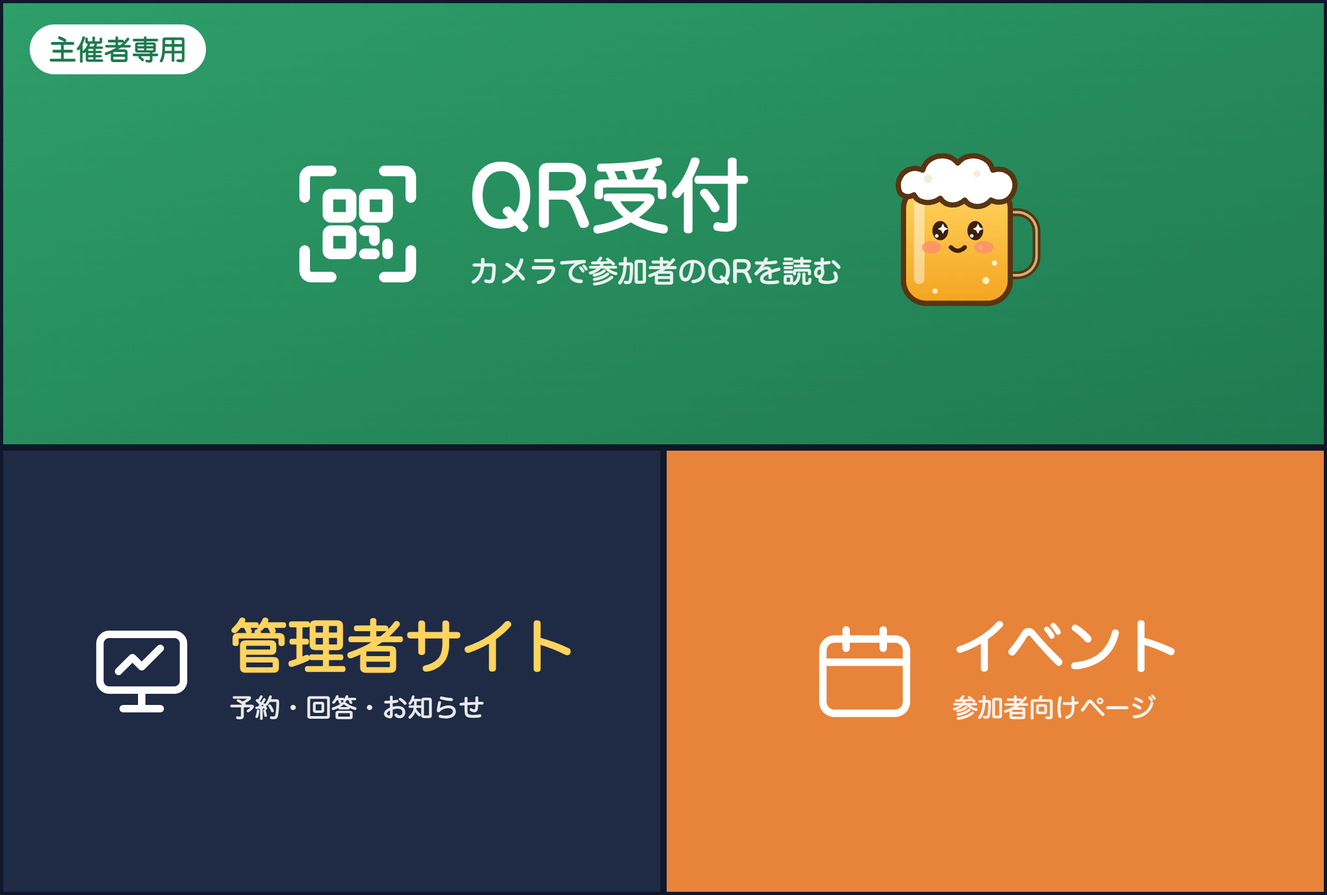
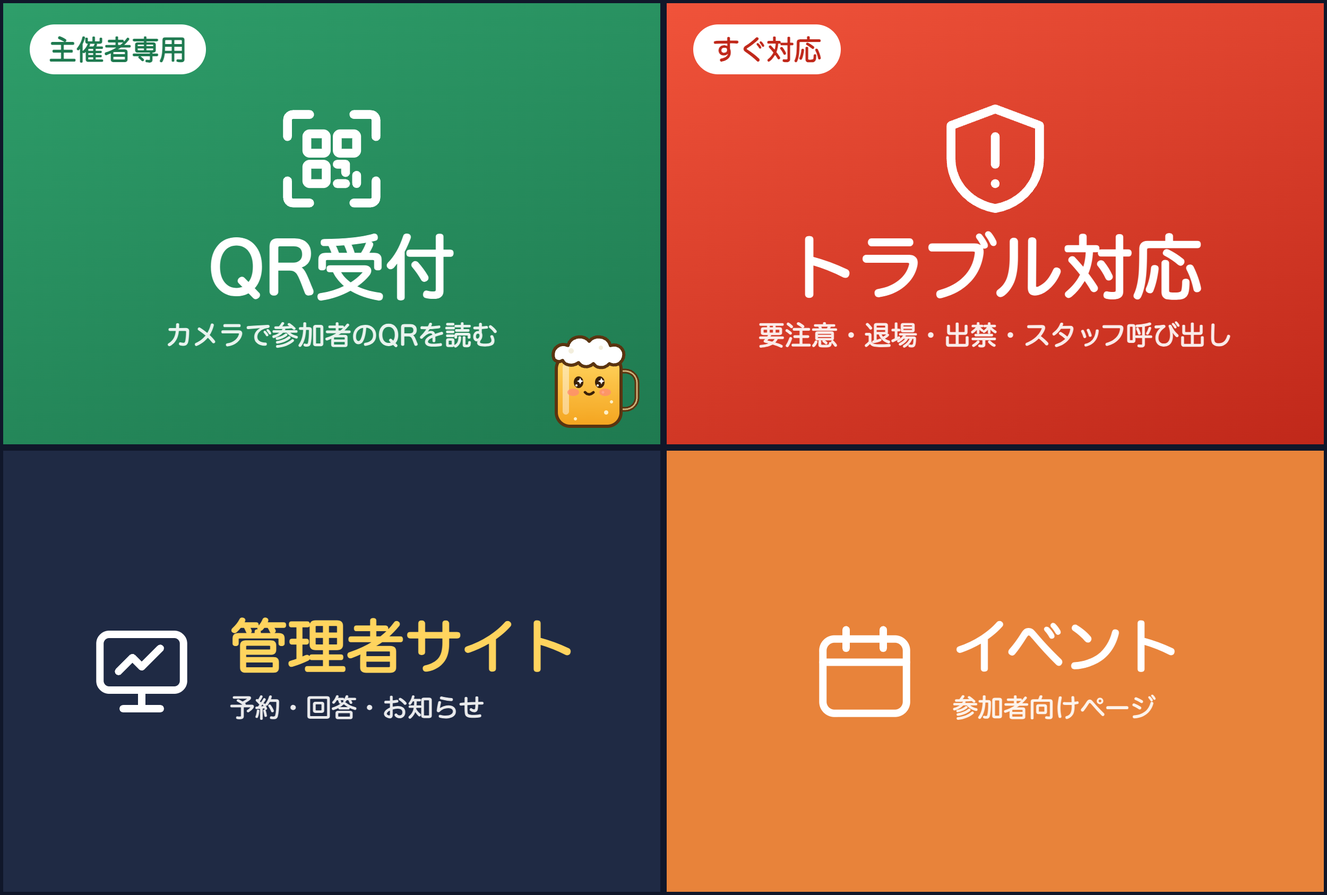
Add files via upload

Changed region(s): [[0.1248, 0.0, 0.9984, 0.4935]]

diff --git a/staff.html b/staff.html
@@ -1,0 +1,272 @@
+<!doctype html>
+<html lang="ja">
+<head>
+<meta charset="utf-8">
+<meta name="viewport" content="width=device-width, initial-scale=1, viewport-fit=cover">
+<meta name="robots" content="noindex">
+<title>トラブル対応</title>
+<link rel="preconnect" href="https://fonts.googleapis.com">
+<link href="https://fonts.googleapis.com/css2?family=Zen+Maru+Gothic:wght@500;700;900&display=swap" rel="stylesheet">
+<style>
+  :root { --ink: #1E2433; --sub: #6B7285; --line: #E3E6EE; --red: #D9362B; --amber: #E39B1B; --green: #2E9E6A; --navy: #1F2A44; }
+  * { box-sizing: border-box; -webkit-tap-highlight-color: transparent; }
+  html, body { margin: 0; }
+  body { font-family: "Zen Maru Gothic", "Hiragino Maru Gothic ProN", "Hiragino Sans", sans-serif; color: var(--ink); background: #F4F5F9;
+    padding: 0 0 calc(24px + env(safe-area-inset-bottom)); }
+  header { background: var(--navy); color: #fff; padding: calc(14px + env(safe-area-inset-top)) 16px 16px; }
+  header h1 { margin: 0; font-size: 20px; font-weight: 900; }
+  header p { margin: 4px 0 0; font-size: 13px; opacity: .8; }
+  main { padding: 0 16px; max-width: 560px; margin: 0 auto; }
+  h2 { font-size: 15px; margin: 22px 0 8px; color: var(--sub); }
+  .call { display: grid; grid-template-columns: 1fr 1fr; gap: 8px; margin-top: 14px; }
+  .call button { border: 0; border-radius: 16px; padding: 14px 10px; font: inherit; font-weight: 900; font-size: 15px; color: #fff; min-height: 64px; }
+  .call .urgent { grid-column: span 2; background: var(--red); font-size: 19px; min-height: 72px; box-shadow: 0 4px 0 #9E1F16; }
+  .call .trouble { background: var(--amber); box-shadow: 0 4px 0 #A86E0C; }
+  .call .come { background: var(--navy); box-shadow: 0 4px 0 #0E1424; }
+  .call button:active { transform: translateY(3px); box-shadow: none; }
+  .place { width: 100%; margin-top: 8px; border: 2px solid var(--line); border-radius: 12px; padding: 12px; font: inherit; font-size: 16px; background: #fff; }
+  .search { position: sticky; top: 0; z-index: 2; background: #F4F5F9; padding: 8px 0; }
+  .search input { width: 100%; border: 2px solid var(--line); border-radius: 12px; padding: 12px; font: inherit; font-size: 16px; background: #fff; }
+  .chips { display: flex; gap: 6px; margin-top: 8px; overflow-x: auto; }
+  .chips button { border: 2px solid var(--line); background: #fff; border-radius: 999px; padding: 6px 12px; font: inherit; font-weight: 700; font-size: 13px; white-space: nowrap; color: var(--ink); }
+  .chips button.on { background: var(--ink); border-color: var(--ink); color: #fff; }
+  .g { background: #fff; border-radius: 16px; margin-top: 8px; border: 2px solid transparent; overflow: hidden; }
+  .g.warn { border-color: var(--amber); }
+  .g.ban { border-color: var(--red); background: #FFF4F2; }
+  .g.focus { box-shadow: 0 0 0 4px rgba(217,54,43,.25); }
+  .row { display: flex; align-items: center; gap: 10px; padding: 12px 14px; width: 100%; border: 0; background: none; font: inherit; text-align: left; color: inherit; }
+  .who { flex: 1; min-width: 0; }
+  .who b { display: block; font-size: 17px; }
+  .who span { font-size: 12px; color: var(--sub); }
+  .pill { font-size: 12px; font-weight: 900; border-radius: 999px; padding: 4px 10px; white-space: nowrap; background: #EEF0F5; color: var(--sub); }
+  .pill.in { background: #E3F5EC; color: var(--green); }
+  .pill.flag-warn { background: #FFF1D6; color: #9A6406; }
+  .pill.flag-ban, .pill.out { background: #FDE3E0; color: var(--red); }
+  .more { padding: 0 14px 14px; display: none; }
+  .g.open .more { display: block; }
+  .memo { background: #F7F8FB; border-radius: 10px; padding: 10px; font-size: 13px; color: var(--ink); white-space: pre-wrap; margin-bottom: 8px; }
+  .more textarea { width: 100%; border: 2px solid var(--line); border-radius: 10px; padding: 10px; font: inherit; font-size: 16px; min-height: 64px; resize: vertical; }
+  .acts { display: grid; grid-template-columns: 1fr 1fr; gap: 8px; margin-top: 8px; }
+  .acts button { border: 0; border-radius: 12px; padding: 12px 8px; font: inherit; font-weight: 900; font-size: 14px; color: #fff; min-height: 48px; }
+  .a-warn { background: var(--amber); } .a-leave { background: var(--navy); } .a-ban { background: var(--red); }
+  .a-clear { background: #fff; color: var(--ink) !important; border: 2px solid var(--line) !important; }
+  .a-note { grid-column: span 2; background: #fff; color: var(--ink) !important; border: 2px solid var(--line) !important; }
+  button:disabled { opacity: .5; }
+  .empty { text-align: center; color: var(--sub); padding: 24px 0; }
+  .links { display: grid; grid-template-columns: 1fr 1fr; gap: 8px; margin-top: 8px; }
+  .links a { display: block; background: #fff; border: 2px solid var(--line); border-radius: 12px; padding: 12px; text-align: center; color: var(--ink); text-decoration: none; font-weight: 900; }
+  .toast { position: fixed; left: 50%; bottom: calc(24px + env(safe-area-inset-bottom)); transform: translateX(-50%) translateY(120px); background: var(--ink); color: #fff; padding: 12px 18px; border-radius: 999px; font-weight: 700; transition: transform .25s; z-index: 9; max-width: calc(100% - 32px); }
+  .toast.show { transform: translateX(-50%) translateY(0); }
+  .sheet { position: fixed; inset: 0; background: rgba(0,0,0,.45); display: none; align-items: flex-end; z-index: 8; }
+  .sheet.show { display: flex; }
+  .sheet > div { background: #fff; width: 100%; border-radius: 20px 20px 0 0; padding: 20px 16px calc(20px + env(safe-area-inset-bottom)); }
+  .sheet h3 { margin: 0 0 6px; font-size: 18px; }
+  .sheet p { margin: 0 0 14px; color: var(--sub); white-space: pre-wrap; }
+  .sheet .btns { display: grid; grid-template-columns: 1fr 1.4fr; gap: 8px; }
+  .sheet button { border: 0; border-radius: 12px; padding: 14px; font: inherit; font-weight: 900; font-size: 16px; }
+  .sheet .no { background: #EEF0F5; } .sheet .yes { background: var(--red); color: #fff; }
+  .err { color: var(--red); font-weight: 700; text-align: center; margin-top: 16px; }
+</style>
+</head>
+<body>
+<header>
+  <h1>🛡 トラブル対応</h1>
+  <p id="hello">主催者・受付スタッフだけが使えるページです</p>
+</header>
+<main>
+  <h2>スタッフを呼ぶ（ほかのスタッフのLINEに届きます）</h2>
+  <div class="call">
+    <button class="urgent" data-kind="urgent">🚨 至急！すぐ来て</button>
+    <button class="trouble" data-kind="trouble">⚠ 困った人がいる</button>
+    <button class="come" data-kind="come">🙋 手を貸して</button>
+  </div>
+  <input class="place" id="place" maxlength="100" placeholder="場所・状況（任意）例：入口、奥のテーブル">
+
+  <h2>今日の参加者 <span id="count"></span></h2>
+  <div class="search">
+    <input id="q" type="search" placeholder="名前で探す">
+    <div class="chips" id="chips">
+      <button data-f="all" class="on">すべて</button>
+      <button data-f="in">受付済み</button>
+      <button data-f="flag">⚠ 要注意・出禁</button>
+      <button data-f="out">退場</button>
+    </div>
+  </div>
+  <div id="list"><p class="empty">読み込み中…</p></div>
+  <p class="err" id="err"></p>
+
+  <h2>ほかの操作</h2>
+  <div class="links">
+    <a href="https://line.me/R/nv/QRCodeReader">📷 QRで受付</a>
+    <a id="admin" href="#">🖥 管理者サイト</a>
+  </div>
+</main>
+<div class="sheet" id="sheet"><div><h3 id="sTitle"></h3><p id="sBody"></p><div class="btns"><button class="no" id="sNo">やめる</button><button class="yes" id="sYes">OK</button></div></div></div>
+<div class="toast" id="toast"></div>
+<script>
+const LIFF_ID = '2012697224-lfwPcqYm';
+const GAS_URL = 'https://script.google.com/macros/s/AKfycby45UwD6Ymwvnf_D_4vMbUGY_m0DUGJtse1oD3hqwHVuDASQ996Xnu2-AKLAqKheMiytQ/exec';
+const ADMIN_URL = 'https://script.google.com/macros/s/AKfycbwPXMvPakMdCljBulMg0I7vnNTqTgSE3EvaV5VeKBWTcx6Q_E9No3UfLSuTM9cAdRiP/exec';
+const params = new URLSearchParams(location.search);
+const PREVIEW = params.has('preview');
+const $ = (id) => document.getElementById(id);
+$('admin').href = ADMIN_URL + '?openExternalBrowser=1';
+let guests = [];
+let filter = 'all';
+let openCode = params.get('c') || '';
+
+function el(tag, props, kids) {
+  const e = Object.assign(document.createElement(tag), props || {});
+  (kids || []).forEach((k) => { if (k) e.append(k); });
+  return e;
+}
+function toast(t) { const x = $('toast'); x.textContent = t; x.classList.add('show'); clearTimeout(toast.t); toast.t = setTimeout(() => x.classList.remove('show'), 2600); }
+function confirmSheet(title, body, yes) {
+  return new Promise((res) => {
+    $('sTitle').textContent = title; $('sBody').textContent = body; $('sYes').textContent = yes;
+    $('sheet').classList.add('show');
+    const done = (v) => { $('sheet').classList.remove('show'); $('sYes').onclick = $('sNo').onclick = null; res(v); };
+    $('sYes').onclick = () => done(true); $('sNo').onclick = () => done(false);
+  });
+}
+
+// ---- プレビュー用のダミー ----
+const DEMO = [
+  { code: 'aaaaaa111111', nickname: 'ありす', lineName: 'Alice', status: '承認', checkedIn: '19:05', flag: '', memo: '' },
+  { code: 'bbbbbb222222', nickname: 'たける', lineName: 'Takeru', status: '承認', checkedIn: '19:12', flag: '要注意', memo: '11/20 20:10 ぐっち：しつこく連絡先を聞いていた' },
+  { code: 'cccccc333333', nickname: 'みお', lineName: 'Mio', status: '承認', checkedIn: '', flag: '', memo: '' },
+  { code: 'dddddd444444', nickname: 'けん', lineName: 'Ken', status: '申請中', checkedIn: '', flag: '', memo: '' },
+];
+async function api(body) {
+  if (PREVIEW) {
+    await new Promise((r) => setTimeout(r, 300));
+    if (body.op === 'list') return { ok: true, me: 'ぐっち', staffCount: 2, guests: DEMO };
+    if (body.op === 'alert') return { ok: true, sent: 1 };
+    const g = DEMO.find((x) => x.code === body.code);
+    if (body.op === 'warn') g.flag = '要注意'; if (body.op === 'ban') g.flag = '出禁'; if (body.op === 'clear') g.flag = '';
+    if (body.op === 'leave') { g.status = '退場'; g.flag = g.flag || '要注意'; }
+    if (body.note) g.memo = (g.memo ? g.memo + ' / ' : '') + 'いま ぐっち：' + body.note;
+    return { ok: true, guest: { ...g } };
+  }
+  const r = await fetch(GAS_URL, { method: 'POST', headers: { 'Content-Type': 'text/plain;charset=utf-8' }, body: JSON.stringify({ type: 'staff', idToken: liff.getIDToken(), ...body }) });
+  return r.json();
+}
+
+// ---- スタッフ呼び出し ----
+document.querySelectorAll('.call button').forEach((b) => b.addEventListener('click', async () => {
+  const label = b.textContent;
+  const place = $('place').value.trim();
+  const ok = await confirmSheet(label, 'ほかのスタッフ全員のLINEに通知します。' + (place ? '\n📍 ' + place : ''), '呼ぶ');
+  if (!ok) return;
+  b.disabled = true;
+  try {
+    const res = await api({ op: 'alert', kind: b.dataset.kind, note: place });
+    if (!res.ok) throw new Error(res.error);
+    toast(res.sent ? '📣 ' + res.sent + '人に知らせました' : 'ほかに登録しているスタッフがいません');
+    if (navigator.vibrate) navigator.vibrate(60);
+  } catch (e) { toast('送れませんでした。もう一度押してね'); }
+  b.disabled = false;
+}));
+
+// ---- 参加者リスト ----
+const STATUS = (g) => g.status === '退場' ? ['退場', 'out'] : g.checkedIn ? ['受付 ' + g.checkedIn, 'in'] : g.status === '申請中' ? ['承認待ち', ''] : ['未受付', ''];
+const FLAG = { '要注意': ['⚠ 要注意', 'flag-warn', 'warn'], '出禁': ['🚫 出禁', 'flag-ban', 'ban'] };
+
+function card(g) {
+  const st = STATUS(g);
+  const f = FLAG[g.flag];
+  const note = el('textarea', { placeholder: '何があった？（任意・ほかのスタッフにも届きます）', maxLength: 150 });
+  const act = (op, text, cls, ask) => {
+    const b = el('button', { className: cls, textContent: text });
+    b.addEventListener('click', async () => {
+      const v = note.value.trim();
+      if (op === 'note' && !v) { note.focus(); toast('メモを書いてね'); return; }
+      if (ask && !(await confirmSheet(ask[0], ask[1], ask[2]))) return;
+      b.disabled = true;
+      try {
+        const res = await api({ op, code: g.code, note: v });
+        if (!res.ok) throw new Error(res.error);
+        Object.assign(g, res.guest);
+        openCode = g.code;
+        render();
+        toast({ warn: '⚠ 要注意にしました', ban: '🚫 出禁にしました', clear: '↩ 外しました', leave: '🚪 退場にしました', note: '📝 メモしました' }[op]);
+      } catch (e) { b.disabled = false; toast('保存できませんでした。もう一度押してね'); }
+    });
+    return b;
+  };
+  const box = el('div', { className: 'g' + (f ? ' ' + f[2] : '') + (openCode === g.code ? ' open focus' : '') }, [
+    el('button', { className: 'row', onclick: () => { box.classList.toggle('open'); openCode = box.classList.contains('open') ? g.code : ''; } }, [
+      el('div', { className: 'who' }, [el('b', { textContent: g.nickname + ' さん' }), el('span', { textContent: 'LINE名：' + g.lineName })]),
+      f ? el('span', { className: 'pill ' + f[1], textContent: f[0] }) : null,
+      el('span', { className: 'pill ' + st[1], textContent: st[0] }),
+    ]),
+    el('div', { className: 'more' }, [
+      g.memo ? el('div', { className: 'memo', textContent: '📝 ' + g.memo }) : null,
+      note,
+      el('div', { className: 'acts' }, [
+        g.flag !== '要注意' ? act('warn', '⚠ 要注意', 'a-warn', null) : act('clear', '↩ 要注意を外す', 'a-clear', null),
+        g.status !== '退場' ? act('leave', '🚪 退場してもらった', 'a-leave', ['退場にしますか？', g.nickname + ' さんを「退場」にして、ほかのスタッフに知らせます。\n本人には通知されません。', '退場にする']) : null,
+        g.flag !== '出禁' ? act('ban', '🚫 出禁', 'a-ban', ['出禁にしますか？', g.nickname + ' さんは次回から予約できなくなります。\n本人には通知されません。あとで管理者サイトから外せます。', '出禁にする']) : act('clear', '↩ 出禁を外す', 'a-clear', ['出禁を外しますか？', 'また予約できるようになります。', '外す']),
+        act('note', '📝 メモだけ残す', 'a-note', null),
+      ]),
+    ]),
+  ]);
+  return box;
+}
+
+function render() {
+  const q = $('q').value.trim().toLowerCase();
+  const list = guests.filter((g) => (!q || (g.nickname + g.lineName).toLowerCase().includes(q))
+    && (filter === 'all' || (filter === 'in' ? g.checkedIn && g.status !== '退場' : filter === 'flag' ? g.flag : g.status === '退場')));
+  // 開いている人 → 要注意・出禁 → 受付済み → その他
+  const rank = (g) => (g.code === openCode ? 0 : g.flag === '出禁' ? 1 : g.flag ? 2 : g.checkedIn ? 3 : 4);
+  list.sort((a, b) => rank(a) - rank(b) || a.nickname.localeCompare(b.nickname, 'ja'));
+  const inCount = guests.filter((g) => g.checkedIn && g.status !== '退場').length;
+  $('count').textContent = '（受付 ' + inCount + ' / ' + guests.length + '人）';
+  $('list').replaceChildren(...(list.length ? list.map(card) : [el('p', { className: 'empty', textContent: guests.length ? '見つかりません' : 'まだ予約した人がいません' })]));
+}
+$('q').addEventListener('input', render);
+$('chips').addEventListener('click', (e) => {
+  const b = e.target.closest('button'); if (!b) return;
+  filter = b.dataset.f;
+  document.querySelectorAll('#chips button').forEach((x) => x.classList.toggle('on', x === b));
+  render();
+});
+
+function loadSdk() {
+  if (window.liff) return Promise.resolve();
+  return new Promise((res, rej) => {
+    const sc = document.createElement('script');
+    sc.src = 'https://static.line-scdn.net/liff/edge/2/sdk.js'; sc.charset = 'utf-8';
+    sc.onload = res; sc.onerror = rej; document.head.appendChild(sc);
+    setTimeout(() => rej(new Error('timeout')), 15000);
+  });
+}
+
+async function load() {
+  const res = await api({ op: 'list' });
+  if (!res.ok) {
+    const msg = { not_staff: 'このLINEはスタッフ登録されていません。管理者サイトのメンバータブの番号で「通知登録」か「受付登録」をしてね。', auth: 'ログインし直してね。' }[res.error] || '読み込めませんでした。';
+    $('list').replaceChildren(); $('err').textContent = msg;
+    document.querySelectorAll('.call button').forEach((b) => { b.disabled = true; });
+    return;
+  }
+  $('hello').textContent = res.me + ' さん・スタッフ ' + res.staffCount + '人';
+  guests = res.guests;
+  render();
+  if (openCode) { const f = document.querySelector('.g.focus'); if (f) f.scrollIntoView({ block: 'center' }); }
+}
+
+async function main() {
+  if (!PREVIEW) {
+    try { await loadSdk(); await liff.init({ liffId: LIFF_ID }); } catch (e) { $('list').replaceChildren(); $('err').textContent = 'LINEアプリから開いてね。'; return; }
+    if (!liff.isLoggedIn()) { liff.login({ redirectUri: location.href }); return; }
+  }
+  try { await load(); } catch (e) { $('list').replaceChildren(); $('err').textContent = '通信エラー。電波のいいところで開き直してね。'; }
+}
+// 別のスタッフの操作も見えるように、画面に戻ったら読み直す
+document.addEventListener('visibilitychange', () => { if (!document.hidden && guests.length) load().catch(() => {}); });
+main();
+</script>
+</body>
+</html>

diff --git a/admin.js b/admin.js
@@ -563,8 +563,8 @@
     ].map(stagger));
     const btns = R_FILTERS.map((x) => el('button', { type: 'button', textContent: x.label, 'aria-pressed': String(reserveFilter === x.key) }));
     const body = el('div', { className: 'friends' });
-    const PILL = { '申請中': 'wait', '承認': 'yes', '見送り': 'no', 'キャンセル': 'no', '不参加': 'no' };
-    const LABEL = { '申請中': '承認待ち', '承認': '確定', '見送り': '見送り', 'キャンセル': 'キャンセル', '不参加': '行けない' };
+    const PILL = { '申請中': 'wait', '承認': 'yes', '見送り': 'no', 'キャンセル': 'no', '不参加': 'no', '退場': 'no' };
+    const LABEL = { '申請中': '承認待ち', '承認': '確定', '見送り': '見送り', 'キャンセル': 'キャンセル', '不参加': '行けない', '退場': '🚪 退場' };
     const draw = () => {
       const list = R.filter((r) => reserveFilter === 'all' || (reserveFilter === 'wait' ? r.status === '申請中' : reserveFilter === 'no' ? r.status === '不参加' : r.status === '承認'));
       body.replaceChildren(...(list.length ? list.map((r, i) => {
@@ -584,7 +584,7 @@
           el('div', { className: 'meta', textContent: sub }),
           r.comment ? el('div', { className: 'rcomment', textContent: '💬 ' + r.comment }) : null,
           r.checkedIn ? el('div', { className: 'rcheck', textContent: '✅ 来場 ' + r.checkedIn.slice(5, 16) }) : null,
-          r.flag || r.memo ? el('div', { className: 'rwarn' + (r.flag ? ' flag' : ''), textContent: (r.flag ? '⚠ 要注意：' : '📝 ') + (r.memo || '') }) : null,
+          r.flag || r.memo ? el('div', { className: 'rwarn' + (r.flag ? ' flag' : ''), textContent: (r.ban ? '🚫 出禁：' : r.flag ? '⚠ 要注意：' : '📝 ') + (r.memo || '') }) : null,
           acts.length ? el('div', { className: 'racts' }, acts) : null,
         ]), i);
       }) : [el('p', { className: 'empty', textContent: reserveFilter === 'wait' ? '承認待ちの予約はありません。' : '当てはまる予約はありません。' })]));
@@ -705,7 +705,7 @@
       const table = el('div', { className: 'tablewrap' }, [el('table', {}, [
         el('thead', {}, [el('tr', {}, ['回答日時', 'ニックネーム', 'LINE名', '参加', '年齢', '職業', '知ったきっかけ', '参加の目的', '仕事でつながりたい人', 'お酒', 'NG・アレルギー', '夢・やりたいこと', '目標', 'ひとこと'].map((h) => el('th', { textContent: h })))]),
         el('tbody', {}, list.map((a, i) => stagger(el('tr', {}, [
-          el('td', { textContent: a.at }), el('td', { textContent: (a.flag ? '⚠ ' : '') + a.nickname, title: a.memo || '' }), el('td', { textContent: a.lineName }),
+          el('td', { textContent: a.at }), el('td', { textContent: (a.ban ? '🚫 ' : a.flag ? '⚠ ' : '') + a.nickname, title: a.memo || '' }), el('td', { textContent: a.lineName }),
           el('td', {}, [el('span', { className: 'pill ' + (a.attend === '参加' ? 'yes' : 'no'), textContent: a.attend })]),
           el('td', { textContent: a.age ? a.age + '歳' : '—' }),
           el('td', { className: 'long', textContent: val(a, DETAIL[1][1]) || '—' }),
@@ -718,7 +718,7 @@
       const cards = el('div', { className: 'cards' }, list.map((a, i) => {
         const card = el('article', { className: 'acard' });
         const head = el('button', { type: 'button', 'aria-expanded': 'false' }, [
-          el('span', { className: 'who', textContent: (a.flag ? '⚠ ' : '') + a.nickname }),
+          el('span', { className: 'who', textContent: (a.ban ? '🚫 ' : a.flag ? '⚠ ' : '') + a.nickname }),
           el('span', {}, [el('span', { className: 'pill ' + (a.attend === '参加' ? 'yes' : 'no'), textContent: a.attend }), el('span', { className: 'chev', 'aria-hidden': 'true', textContent: ' ▾' })]),
           el('span', { className: 'meta', textContent: [a.age ? a.age + '歳' : '', a.job ? '💼 ' + a.job : '', a.purpose, a.connect ? '🤝 ' + a.connect : ''].filter(Boolean).join('　') || a.at }),
         ]);
@@ -852,14 +852,14 @@
     btn.addEventListener('click', () => {
       btn.disabled = true;
       run().withSuccessHandler((m) => {
-        btn.disabled = false; a.memo = m.memo; a.flag = m.flag;
+        btn.disabled = false; a.memo = m.memo; a.flag = m.flag; a.ban = m.ban;
         toast(m.flag ? '⚠ 要注意にしました' : 'メモを保存しました');
         if (onSaved) onSaved();
       }).withFailureHandler((e) => { btn.disabled = false; toast(e.message, { err: true }); }).saveMemo(a.row, ta.value, cb.checked);
     });
     return el('div', { className: 'memo-ed' + (a.flag ? ' flag' : '') }, [
       el('div', { className: 'memo-h', textContent: '📝 管理者メモ（本人には見えません）' }), ta,
-      el('div', { className: 'memo-row' }, [el('label', {}, [cb, ' ⚠ 要注意にする（予約・受付で警告）']), btn]),
+      el('div', { className: 'memo-row' }, [el('label', {}, [cb, a.ban ? ' 🚫 出禁中（外すとまた予約できます）' : ' ⚠ 要注意にする（予約・受付で警告）']), btn]),
     ]);
   }
 

diff --git a/checkin.html b/checkin.html
@@ -27,6 +27,10 @@
   .warn { margin-top: 16px; background: #FFF0EB; border: 3px solid var(--warn); border-radius: 16px; padding: 12px 14px; text-align: left; font-weight: 700; }
   .warn b { color: var(--warn); display: block; margin-bottom: 4px; }
   .note { margin-top: 16px; font-size: 13px; color: var(--sub); }
+  .acts { display: grid; grid-template-columns: 1fr 1fr; gap: 8px; margin-top: 16px; }
+  .acts a { display: block; border-radius: 14px; padding: 12px 6px; font-weight: 900; text-decoration: none; color: #fff; font-size: 14px; }
+  .acts .help { background: #1F2A44; } .acts .sos { background: var(--warn); }
+  body.ban { background: linear-gradient(160deg, #B3261E, #5C0F0A); }
 </style>
 </head>
 <body>
@@ -37,6 +41,10 @@
   <p class="sub" id="sub"></p>
   <div id="badgeBox"></div>
   <div id="warnBox"></div>
+  <div class="acts" id="acts" hidden>
+    <a class="help" id="toGuest" href="staff.html">🛡 この人に対応</a>
+    <a class="sos" href="staff.html">🚨 スタッフを呼ぶ</a>
+  </div>
   <p class="note">主催者用の受付画面です。次の人は、スマホのカメラでQRを読んでください。</p>
 </div>
 <script>
@@ -70,7 +78,8 @@ async function main() {
   const code = params.get('c') || '';
   let res;
   if (PREVIEW) {
-    res = { ok: true, already: params.has('again'), nickname: 'ありす', lineName: 'Alice', visits: 3, badge: '⭐ リピーター', checkedIn: '2026/12/20 19:05:00', warn: params.has('warn'), memo: params.has('warn') ? '前回しつこい営業あり。様子を見る' : '' };
+    res = params.has('ban') ? { ok: false, error: 'banned', nickname: 'たける', warn: true, ban: true, memo: '11/20 20:10 ぐっち：しつこい勧誘で退場' }
+      : { ok: true, already: params.has('again'), nickname: 'ありす', lineName: 'Alice', visits: 3, badge: '⭐ リピーター', checkedIn: '2026/12/20 19:05:00', warn: params.has('warn'), memo: params.has('warn') ? '前回しつこい営業あり。様子を見る' : '' };
   } else {
     try { await loadSdk(); await liff.init({ liffId: LIFF_ID }); } catch (e) { return show('ng', 'LINEで開いてね', '', 'スマホのカメラでQRを読むと、LINEで開きます', 'sad'); }
     if (!liff.isLoggedIn()) { liff.login({ redirectUri: location.href }); return; }
@@ -80,7 +89,14 @@ async function main() {
       res = await r.json();
     } catch (e) { return show('ng', '通信エラー', '', '電波のいいところで、もう一度読み取ってください', 'sad'); }
   }
-  if (!res.ok) {
+  if (res.nickname && res.error !== 'not_staff') {
+    $('toGuest').href = 'staff.html?c=' + encodeURIComponent(code || 'aaaaaa111111') + (PREVIEW ? '&preview' : '');
+    $('acts').hidden = false;
+  }
+  if (res.error === 'banned') {
+    show('ng ban', '🚫 出禁の人です', res.nickname + ' さん', '受付していません。入場をお断りしてください', 'sad');
+    if (navigator.vibrate) navigator.vibrate([200, 100, 200]);
+  } else if (!res.ok) {
     const msg = { not_staff: ['主催者だけが使えます', '「通知登録」をしたLINEで読み取ってください'], not_found: ['予約が見つかりません', 'QRが古いかもしれません'],
       not_approved: ['予約が確定していません', '状態：' + (res.status || '') + '。管理者サイトで確認してください'], auth: ['ログインし直してね', ''], bad_code: ['QRが正しくありません', ''] }[res.error] || ['受付できませんでした', res.error || ''];
     show('ng', msg[0], res.nickname ? res.nickname + ' さん' : '', msg[1], 'sad');

diff --git a/reserve.html b/reserve.html
@@ -289,7 +289,7 @@ $('reserveBtn').addEventListener('click', async () => {
     render(res);
     confetti();
   } catch (e) {
-    $('err').textContent = '予約を送れませんでした。電波のいいところで、もう一度押してね。';
+    $('err').textContent = e.message === 'closed' ? '申し訳ありません。今回はご予約をお受けできません。' : '予約を送れませんでした。電波のいいところで、もう一度押してね。';
     say('あれれ…', 'sad', 'droop');
   } finally { b.disabled = false; b.textContent = '🎫 予約する'; }
 });
